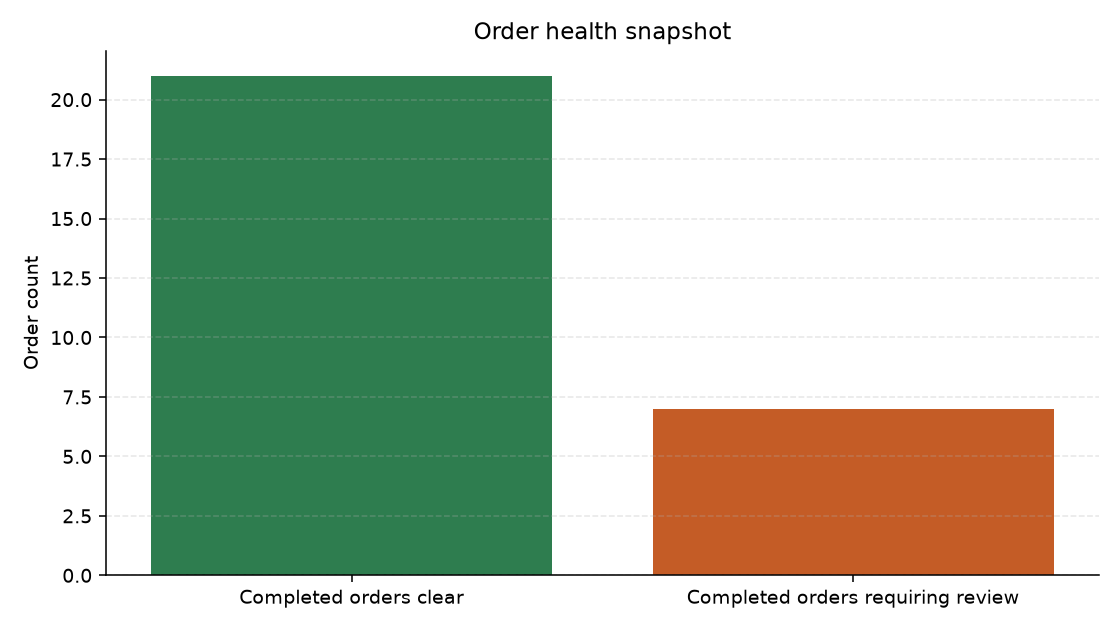
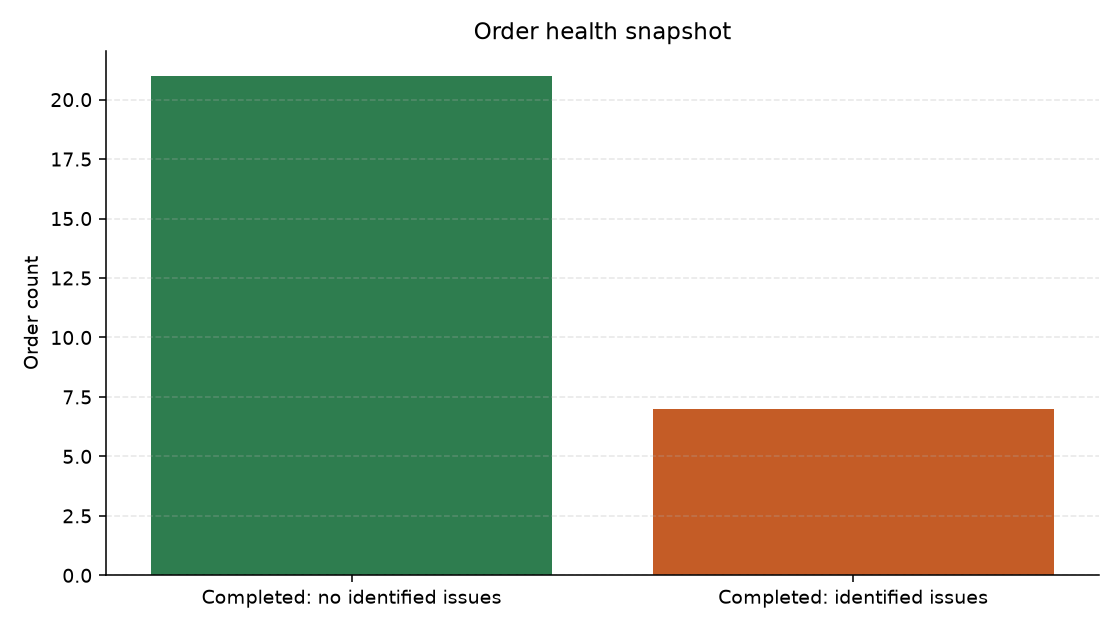
Improve data modeling and business reporting

Changed region(s): [[0.5938, 0.9349, 0.9062, 0.9651], [0.1875, 0.9349, 0.4375, 0.9651]]

diff --git a/src/reporting.py b/src/reporting.py
@@ -187,9 +187,12 @@ def _order_health_counts(con: duckdb.DuckDBPyConnection) -> tuple[int, int]:
 
 
 def _write_order_health_chart(clear: int, requiring_review: int) -> Path:
-    """Mutually exclusive completed-order health counts."""
+    """Completed-order counts split by identified quality issues."""
     return _save_bar_chart(
-        categories=["Completed orders clear", "Completed orders requiring review"],
+        categories=[
+            "Completed: no identified issues",
+            "Completed: identified issues",
+        ],
         values=[float(clear), float(requiring_review)],
         title="Order health snapshot",
         ylabel="Order count",
@@ -400,8 +403,8 @@ def write_outputs(con: duckdb.DuckDBPyConnection) -> None:
     snapshot_df = pd.DataFrame(
         {
             "category": [
-                "Completed orders clear",
-                "Completed orders requiring review",
+                "Completed: no identified issues",
+                "Completed: identified issues",
             ],
             "order_count": [clear_n, review_n],
         }
@@ -411,8 +414,10 @@ def write_outputs(con: duckdb.DuckDBPyConnection) -> None:
             [
                 "# Order health snapshot",
                 "",
-                "The categories are mutually exclusive. Requiring review means a completed "
-                "order has at least one order or payment record in `dq_exception_report`.",
+                "`Completed` describes the source order status; it does not mean the "
+                "order passed every quality check. Each completed order appears in one "
+                "group. An order is placed in the identified-issues group when it has "
+                "at least one related entry in `dq_exception_report`.",
                 "",
                 _md_table(snapshot_df),
                 "![Order health snapshot](charts/readme_order_health.png)",

diff --git a/README.md b/README.md
@@ -15,7 +15,7 @@ The pipeline processes the supplied OmniRetail datasets and produces:
 
 ## Snapshot
 
-The pipeline generates mutually exclusive counts for completed orders that are clear and completed orders requiring review. The current seven review orders include the five Q3 orders, O1015 for an inactive product, and O1018 because the source contained a duplicate row. See `outputs/order_health_snapshot.md` for the current table. The chart refreshes on every pipeline run without modifying this README.
+`Completed` describes the order status recorded in the source data; it does not mean the order passed every quality check. The snapshot places each completed order in one of two groups: no identified order or payment issues, or at least one identified issue. In the current data, 21 completed orders have no identified issues and 7 have issues. The seven affected orders include the five listed in Q3, O1015 for an inactive product, and O1018 because the source contained a duplicate row. See `outputs/order_health_snapshot.md` for the table. The chart is regenerated whenever the pipeline runs.
 
 ![Order health snapshot](outputs/charts/readme_order_health.png)
 
@@ -190,7 +190,7 @@ Outputs:
 
 Answers are produced by `sql/business_questions.sql` against the curated model. They are not hard-coded. Each pipeline run also writes charts under `outputs/charts/` and embeds them in `business_answers.md` with the **table first, then the chart**.
 
-The instruction in `input_data/expected_business_questions.md` says to answer the questions using the curated model. Therefore, O1019 and O1020 remain in the audit and exception outputs but are excluded from completed-revenue calculations because their customer or product references are invalid.
+The five business questions are answered using the curated model. O1019 and O1020 remain in the audit and exception outputs but are excluded from completed-revenue calculations because their customer or product references are invalid.
 
 **Completed revenue definition:** `is_revenue_eligible = true`, meaning completed status, valid customer and product keys, a parsed order date, and quantity greater than zero. Revenue eligibility is separate from data quality status. For example, an eligible order can still have a payment mismatch or use an inactive product, and that exception remains visible for review.
 
@@ -255,7 +255,7 @@ This regenerates:
 
 ## Updating with new data
 
-This pipeline does a full refresh on each run. It does not watch folders, stream events, or load only new rows.
+This pipeline performs a full refresh each time it runs. New data is processed only after the files in `input_data/` are updated and the pipeline command is run again. It does not support automatic ingestion, streaming, or incremental loading.
 
 To include new data:
 
@@ -311,14 +311,14 @@ Cursor (Auto agent router) was used to plan, generate, and debug the pipeline. C
 - When duplicate IDs appear and the source has no update timestamp, the pipeline keeps the earliest usable row. Exact ties use original source-row order as a deterministic final tie-breaker.
 - Country and state standardization focuses on US values in this sample.
 - Customers with negative tickets have a higher observed exception rate than customers without them, but the dataset is too small for causal claims.
-- There is no file watcher, streaming ingest, or auto-detect for new drops. New data is processed only when someone updates `input_data/` and reruns the pipeline.
-- There is no incremental (delta-only) load and no SCD Type 2 history. Each run reprocesses the full current extract.
+- New data is processed only after the source files are updated and the pipeline is run again; ingestion does not start automatically.
+- There is no incremental (delta-only) load and no SCD Type 2 history. Each run reprocesses all current source files.
 
 ## Conclusion
 
 This project provides OmniRetail with a repeatable local pipeline for customer, product, order, payment, and support-ticket data. It creates the curated tables required for customer-360 analysis and checks whether orders and payments agree.
 
-For the supplied extract, 25 completed orders contribute `$1,243.87` to reported revenue. The reports identify the highest-revenue month, customers, and shipping states, as well as five orders with the reference, payment, or quantity problems requested in Q3. The data-quality report contains 18 exception rows with the affected record, severity, and recommended action.
+For the provided OmniRetail data files, 25 completed orders contribute `$1,243.87` to reported revenue. The reports identify the highest-revenue month, customers, and shipping states, as well as five orders with the reference, payment, or quantity problems requested in Q3. The data-quality report contains 18 exception rows with the affected record, severity, and recommended action.
 
 The business answers use the curated tables, while `outputs/exceptions.csv` keeps the records that require correction. When OmniRetail updates the source files, rerunning the pipeline rebuilds the database and reports using the same documented rules.
 

diff --git a/APPROACH.md b/APPROACH.md
@@ -2,7 +2,7 @@
 
 ## Goal
 
-Build a small local OmniRetail data-management solution that turns operational extracts containing known quality issues into curated, queryable tables, surfaces exceptions with remediation guidance, and answers the five business questions from the cleaned model.
+Build a small local OmniRetail data-management solution that turns operational source files containing known quality issues into curated, queryable tables, surfaces exceptions with remediation guidance, and answers the five business questions from the cleaned model.
 
 ## Architecture
 
@@ -42,21 +42,21 @@ Build a small local OmniRetail data-management solution that turns operational e
 
 ## Known limitations / next improvements
 
-- No streaming ingest and no auto-detect of new files. The pipeline only reads what is already in `input_data/` when `python -m src.pipeline` is run.
+- New source files are processed only when `python -m src.pipeline` is run manually; the pipeline does not provide automatic or streaming ingestion.
 - No incremental (delta-only) loads. Each run does a full refresh and rebuilds `outputs/curated.duckdb` and the report files.
 - No SCD Type 2 history for slowly changing customer attributes.
 - State standardization covers US names/codes only.
 - Fuzzy matching is phone-based only; email or name similarity could be added later.
 - A small dashboard over `exceptions.csv` could help business review in a later version.
 
-**How new data is expected to land today:** update the extract files in `input_data/`, rerun the pipeline, then review the new outputs. That keeps the take-home simple and fully reproducible.
+**How new data is processed:** update the source files in `input_data/`, rerun the pipeline, then review the new outputs. This keeps the process simple and fully reproducible.
 
 ## Final audit fixes
 
 The final review led to concrete hardening work:
 
 1. Payments PMT019 and PMT020 remain visible in `int_payment` and are flagged by DQ015.
-2. Order-health categories are mutually exclusive: completed orders clear vs completed orders requiring review.
+2. Each completed order appears in one order-health group: no identified issues or at least one identified issue.
 3. Transform events that already have a DQ equivalent are excluded from the final exception report, preventing duplicate counts.
 4. Missing payments are registered as DQ014, and payment-key uniqueness is checked by DQ016.
 5. Report generation writes only under `outputs/` and no longer modifies `README.md`.

diff --git a/outputs/order_health_snapshot.md b/outputs/order_health_snapshot.md
@@ -1,10 +1,10 @@
 # Order health snapshot
 
-The categories are mutually exclusive. Requiring review means a completed order has at least one order or payment record in `dq_exception_report`.
+`Completed` describes the source order status; it does not mean the order passed every quality check. Each completed order appears in one group. An order is placed in the identified-issues group when it has at least one related entry in `dq_exception_report`.
 
 | category | order_count |
 | --- | --- |
-| Completed orders clear | 21 |
-| Completed orders requiring review | 7 |
+| Completed: no identified issues | 21 |
+| Completed: identified issues | 7 |
 
 ![Order health snapshot](charts/readme_order_health.png)